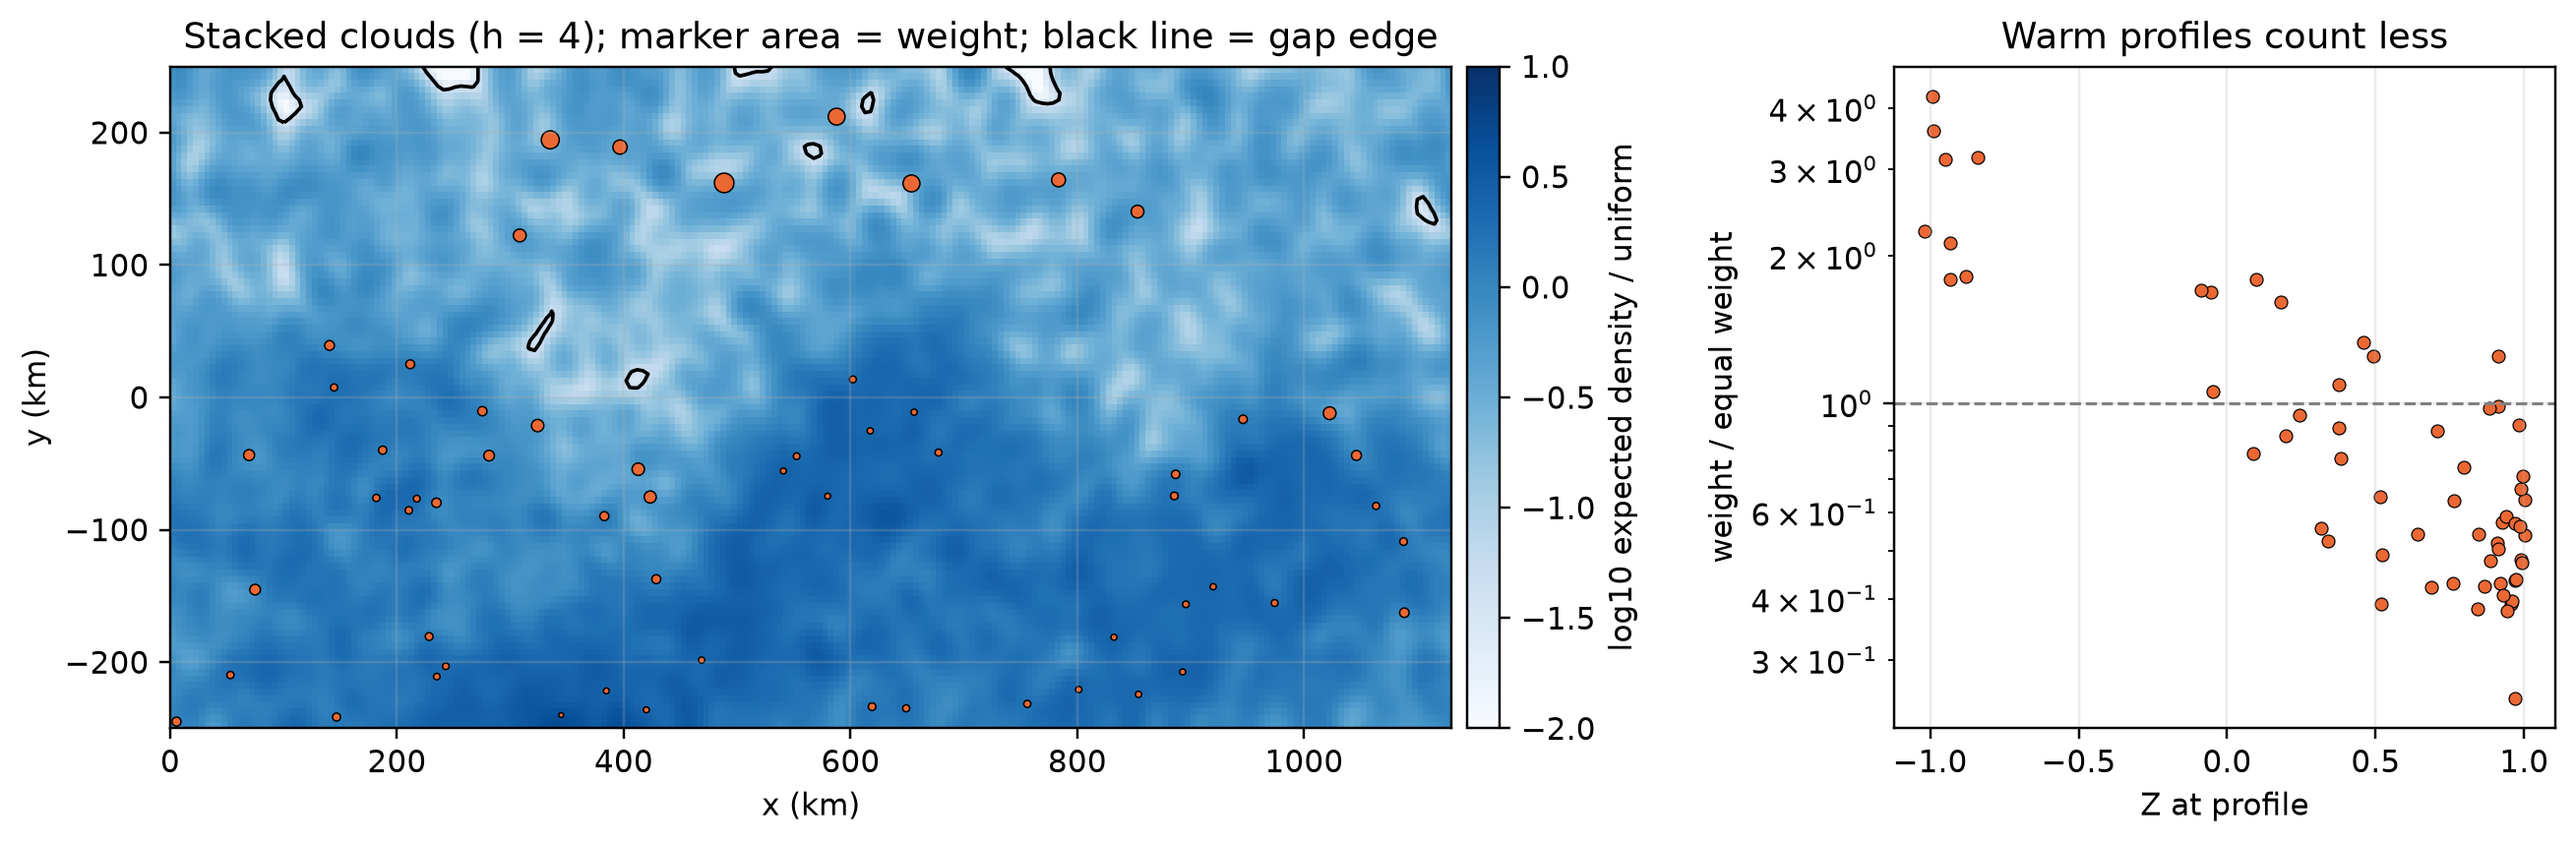
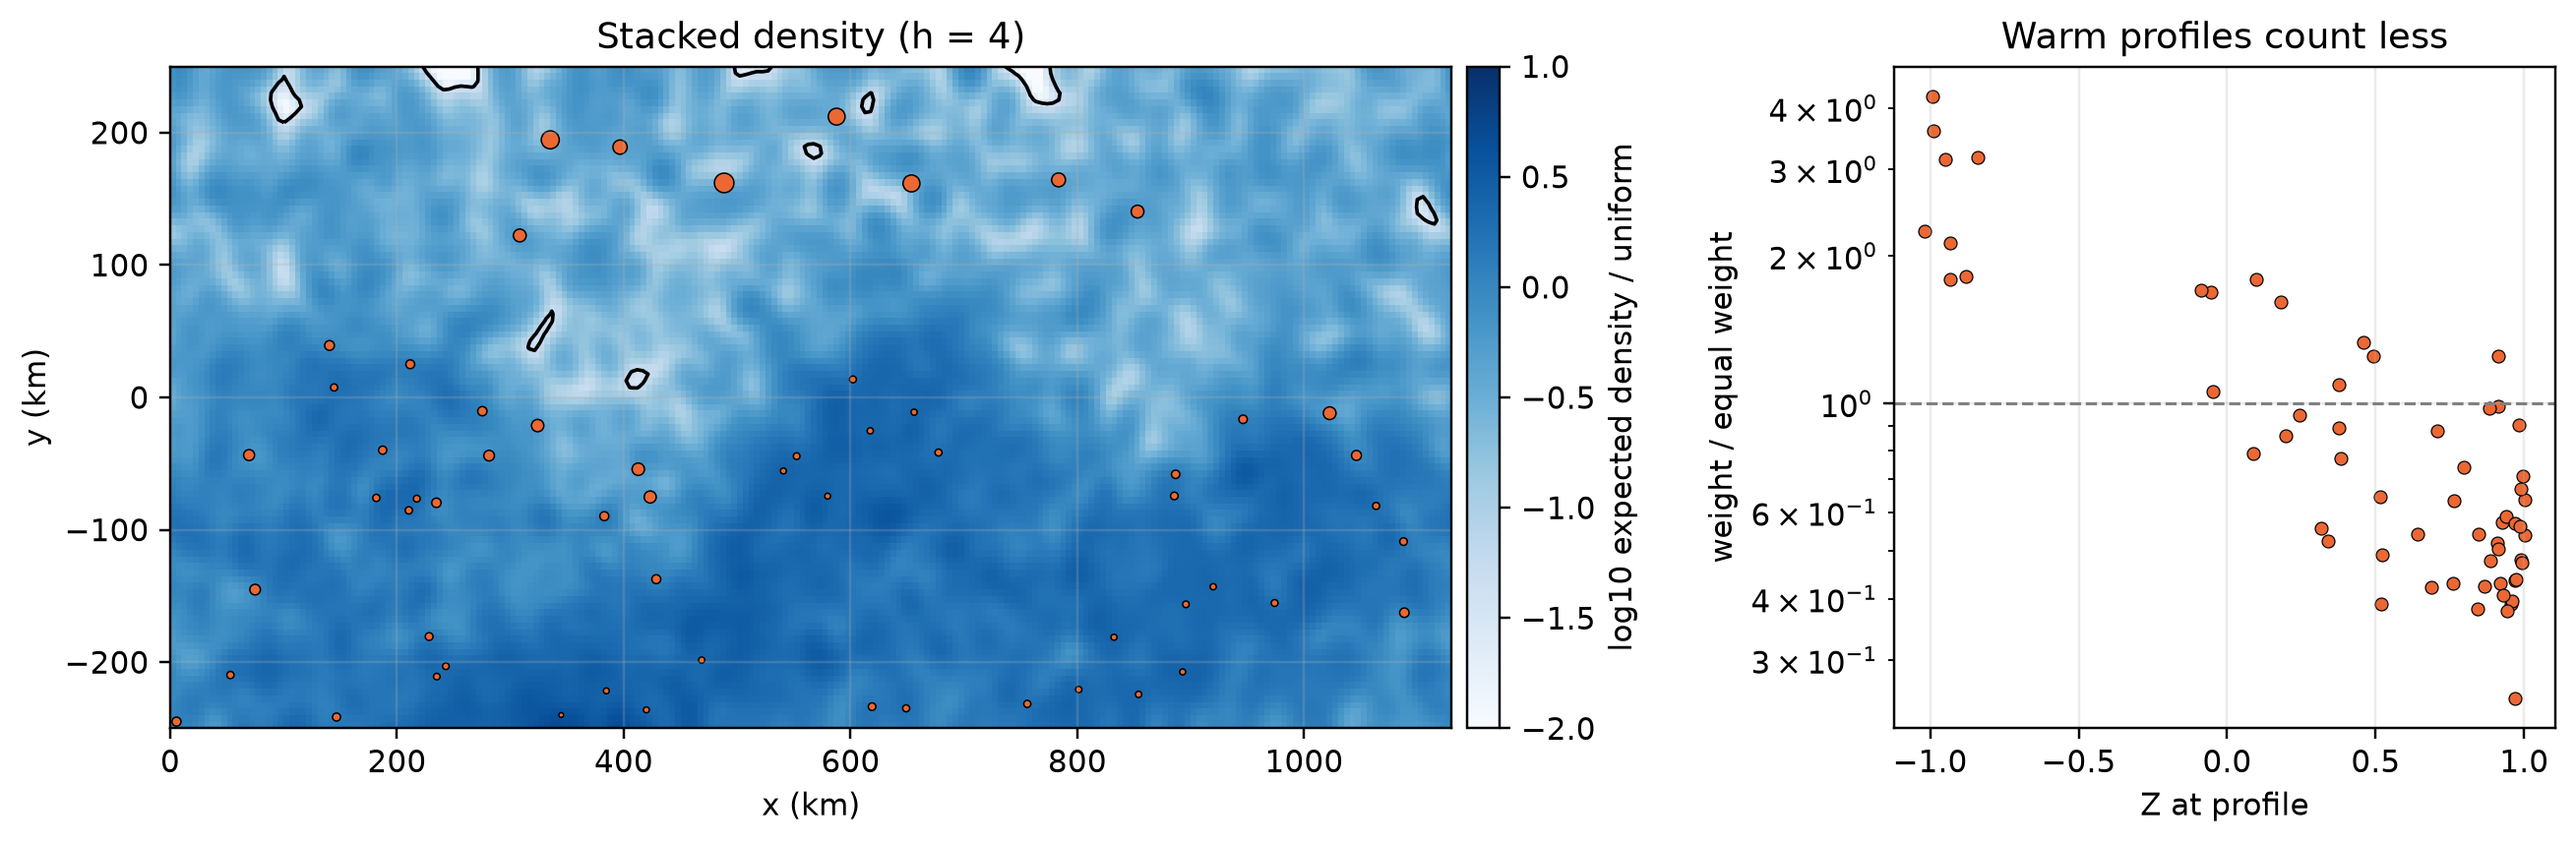
simex: velocity-field figure and "stacked density" wording
Adds plot_velocity (jet/eddy streamlines and the warm-ward drift) to both
toy reports, and renames "stacked clouds" to "stacked density" in titles,
captions and prose.

Claude-Session: https://claude.ai/code/session_01JX5XCkefp2nRPRboPsFMkC

Changed region(s): [[0.0619, 0.0303, 0.5569, 0.0606]]

diff --git a/code/simex.py b/code/simex.py
@@ -303,7 +303,7 @@ def plot_clouds(example=None, figsize=(13, 3.6)):
 
 
 def snapshot(traj, rep=0, window=0, h=H_MAIN, flow=TRUE, seed=5, m=M_PART):
-    """One replicate-window: stacked-cloud density, profile weights, and the three box-mean numbers."""
+    """One replicate-window: stacked density, profile weights, and the three box-mean numbers."""
     rng = np.random.default_rng(seed)
     c = int(window_cycles()[window])
     parts = clouds(traj[rep, :, c - h], np.full(traj.shape[1], (c - h) * CYCLE), h * CYCLE, flow, rng, m)
@@ -327,7 +327,7 @@ def plot_weights(traj, rep=0, window=0, h=H_MAIN, flow=TRUE, seed=5, figsize=(12
     ax[0].scatter(*xy.T, s=600 * share, c=COL["dr"], edgecolors="k", linewidths=0.5)
     fig.colorbar(im, ax=ax[0], pad=0.01, label="log10 expected density / uniform")
     ax[0].set(xlabel="x (km)", ylabel="y (km)",
-              title=f"Stacked clouds (h = {h}); marker area = weight; black line = gap edge")
+              title=f"Stacked density (h = {h})")
     ax[1].scatter(z, share * len(xy), s=18, color=COL["dr"], edgecolors="k", linewidths=0.4)
     ax[1].axhline(1, color="0.5", ls="--", lw=1)
     ax[1].set(xlabel="Z at profile", ylabel="weight / equal weight", yscale="log",
@@ -515,7 +515,7 @@ def plot_dr_story(st, figsize=(13, 7.2), zmax=1.3, rmax=0.8):
     im = img(ax[2], np.log10(np.maximum(rel, 1e-3)).ravel(), cmap="Blues", vmin=-2, vmax=1)
     ax[2].contour(rel.T, levels=[C_REL], extent=ext, colors="k", linewidths=1.2)
     ax[2].scatter(*xb.T, marker=mb, s=40, c=COL["dr"], **pk)
-    ax[2].set_title(f"3. Team {nb}'s possible locations (stacked clouds)")
+    ax[2].set_title(f"3. Team {nb}'s possible locations (stacked density)")
     fig.colorbar(im, ax=ax[2], pad=0.01, label="log10 density / uniform")
     im = img(ax[3], st["map"], **zk)
     ax[3].scatter(*xa.T, c=za, marker=ma, s=40, **zk, **pk)
@@ -559,5 +559,27 @@ def plot_dr_summary(st1, st2, figsize=(9, 3.6)):
     ax.set_ylim(len(rows) - 0.5, -1)
     ax.set_xlabel("box-mean estimate (truth = %.2f)" % st1["truth"])
     ax.grid(axis="y", visible=False)
+    fig.tight_layout()
+    return fig
+
+
+def plot_velocity(t=3600.0, figsize=(12, 3.8)):
+    """Rotational jet velocity (speed + streamlines) and the weak convergent drift delta * grad(psi)."""
+    x, y = np.linspace(0, LX, 114), np.linspace(-LY, LY, 51)
+    X, Y = np.meshgrid(x, y)
+    u, v = velocity(X, Y, t, dict(TRUE, delta=0.0))
+    fig, ax = plt.subplots(1, 2, figsize=figsize, sharey=True)
+    im = ax[0].pcolormesh(X, Y, np.hypot(u, v), cmap="Greys", shading="auto")
+    ax[0].streamplot(x, y, u, v, color="#2a78d6", density=1.4, linewidth=0.8, arrowsize=0.8)
+    fig.colorbar(im, ax=ax[0], pad=0.01, label="speed (km/d)")
+    ax[0].set(title="Jet and eddies (rotational flow)", xlabel="x (km)", ylabel="y (km)", xlim=(0, LX), ylim=(-LY, LY))
+    s = (slice(None, None, 3), slice(None, None, 6))
+    _field(ax[1], t, alpha=0.45)
+    du, dv = TRUE["delta"] * v, -TRUE["delta"] * u
+    q = ax[1].quiver(X[s[0], s[1]], Y[s[0], s[1]], du[s[0], s[1]], dv[s[0], s[1]], color="k", scale=25, width=0.003)
+    ax[1].quiverkey(q, 0.86, 1.04, 1.0, "1 km/d", labelpos="E")
+    ax[1].set(title="Weak drift toward warm water", xlabel="x (km)")
+    for a in ax:
+        a.grid(False)
     fig.tight_layout()
     return fig
